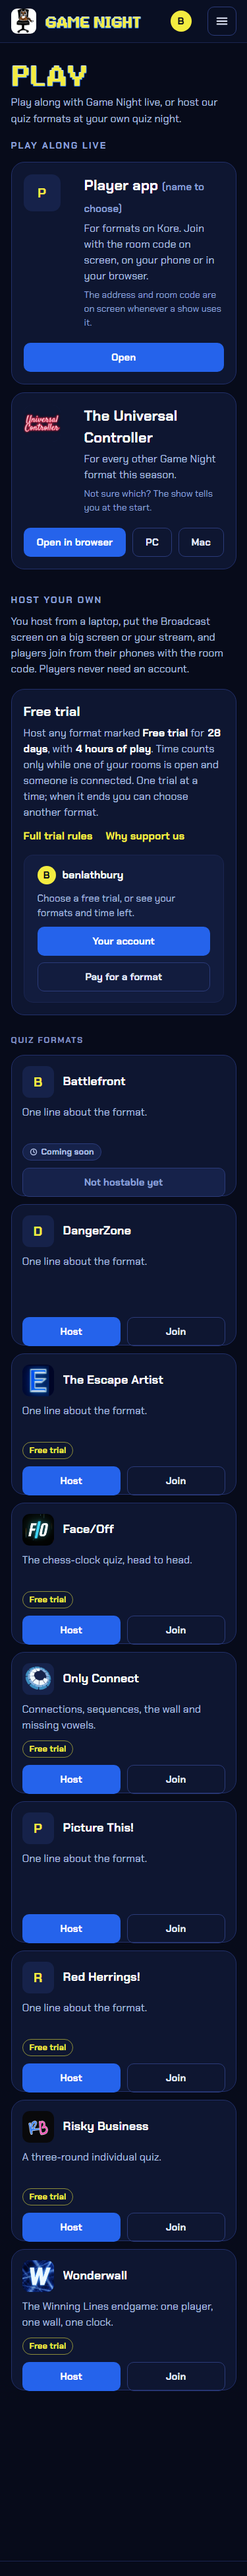
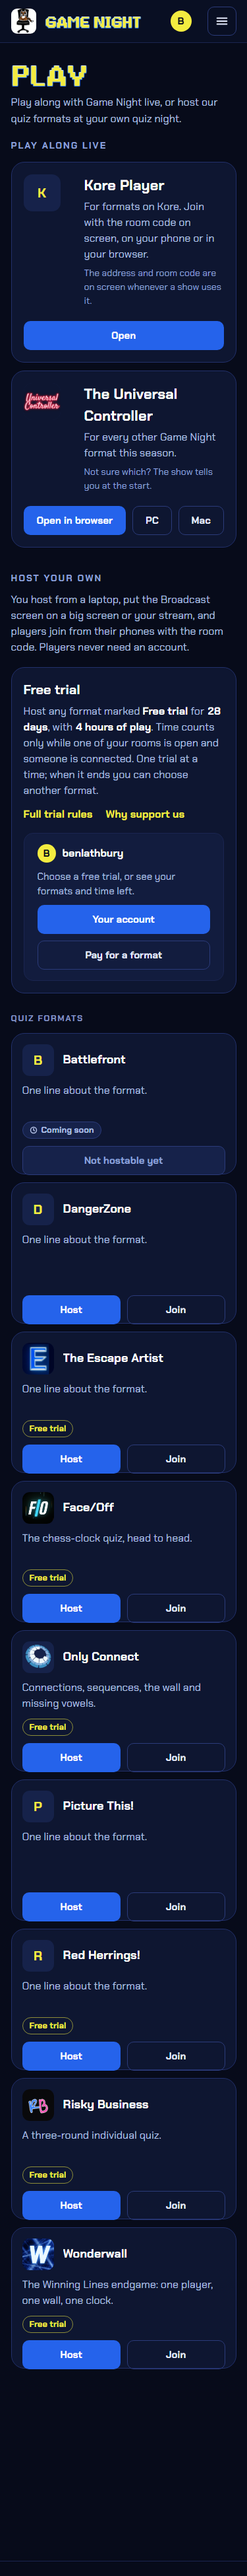
Design: record Ben's answers; Kore Player as the new app's name
All ten site-wide fixes approved; the fullest mock-up names the new
player app Kore Player (provisional).

diff --git a/docs/design/play-page/full.html b/docs/design/play-page/full.html
@@ -52,9 +52,9 @@
       <h2 class="section-label" id="s-live">Play along live</h2>
       <div class="live-pair">
       <section class="panel live-panel">
-        <span class="ph" aria-hidden="true">P</span>
+        <span class="ph" aria-hidden="true">K</span>
         <div>
-          <h3>Player app <span class="tbc">(name to choose)</span></h3>
+          <h3>Kore Player</h3>
           <p>For formats on Kore. Join with the room code on screen, on your phone or in your browser.</p>
           <p class="aside">The address and room code are on screen whenever a show uses it.</p>
         </div>

diff --git a/docs/design/play-page-redesign.md b/docs/design/play-page-redesign.md
@@ -99,11 +99,11 @@ In order of value; each is small.
 
 ## 4. Decisions for Ben
 
-1. **The new player app's name.** Open. Some directions, none recommended yet: keep the family name and number it ("UniCon 2"), clear to regulars but exactly the confusion to avoid while both run this season; a plain name that matches the address ("Game Night Play"); or a fresh short name from the Persephone myth that Kore already draws on. The mock-up says "Player app (name to choose)".
+1. **The new player app's name.** Ben's suggestion, 26 October 2026: **Kore Player** (provisional; the fullest mock-up now uses it). Recommended: take it. It names the engine that players already see on Broadcast (the opening card, "Powered by: Kore Engine" in the credits), it is plainly different from "Universal Controller" while both are in use, and it works for hosts' own shows, not just Game Night. Alternative that keeps UniCon's ring: "KoreCon".
 2. **Which formats show the Free trial chip.** Recommended: the accounts service's public `GET /api/hosting?rules` also returns the ids of the formats that can be chosen as a free trial, so each card's chip follows the Admin Console. Alternative: no per-format chips, only the panel's general sentence.
 3. **Personal trial time on the Play page.** Recommended: no; the page shows only who is signed in, and the time left stays on the account page (one place, already built). Alternative: show "Only Connect: 2 h 10 min left" in the sign-in box, which needs a new signed-in read from the website.
 4. **Font.** Recommended: keep Chakra Petch. Alternatives: Plex for running text only; Plex everywhere except the logotype.
-5. **Which site-wide fixes to do with the Play page.** Recommended: 1 to 8 together (4 in the login app's repo too); 9 needs Ben's word on the survey report; 10 can wait.
+5. **Which site-wide fixes to do with the Play page.** **Answered, 26 October 2026: all ten**, fix 4 in the login app's account page as well, and fix 9 removes both unused files.
 
 Format names in the fullest mock-up other than The Escape Artist and Risky Business (Battlefront, DangerZone, Picture This!, Red Herrings!), their letter icons and "One line about the format." are placeholders to fill the grid, not a release plan.
 
@@ -112,4 +112,5 @@ Format names in the fullest mock-up other than The Escape Artist and Risky Busin
 - **Web Games and Kore Games**: dropped for one alphabetical "Quiz formats" grid, since every format ends up on Kore. Original and Remakes was considered and not used (only two remakes, unlikely to grow).
 - **"Format", not "game"**, on the page and, as fix 4, on Support and the account page.
 - **The Escape Artist and Risky Business**: not listed now, and no Retiring strip; the one host who needs the old Escape Artist reaches it by its address.
+- **Second look**: "Mockup much better." All ten site-wide fixes approved (decision 5). Name: Kore Player suggested (decision 1).
 - **"The Game Night player"**: not the name. The Universal Controller stays in use for at least another season, so the new app is shown beside it, not in place of it, and its name is open (decision 1).
